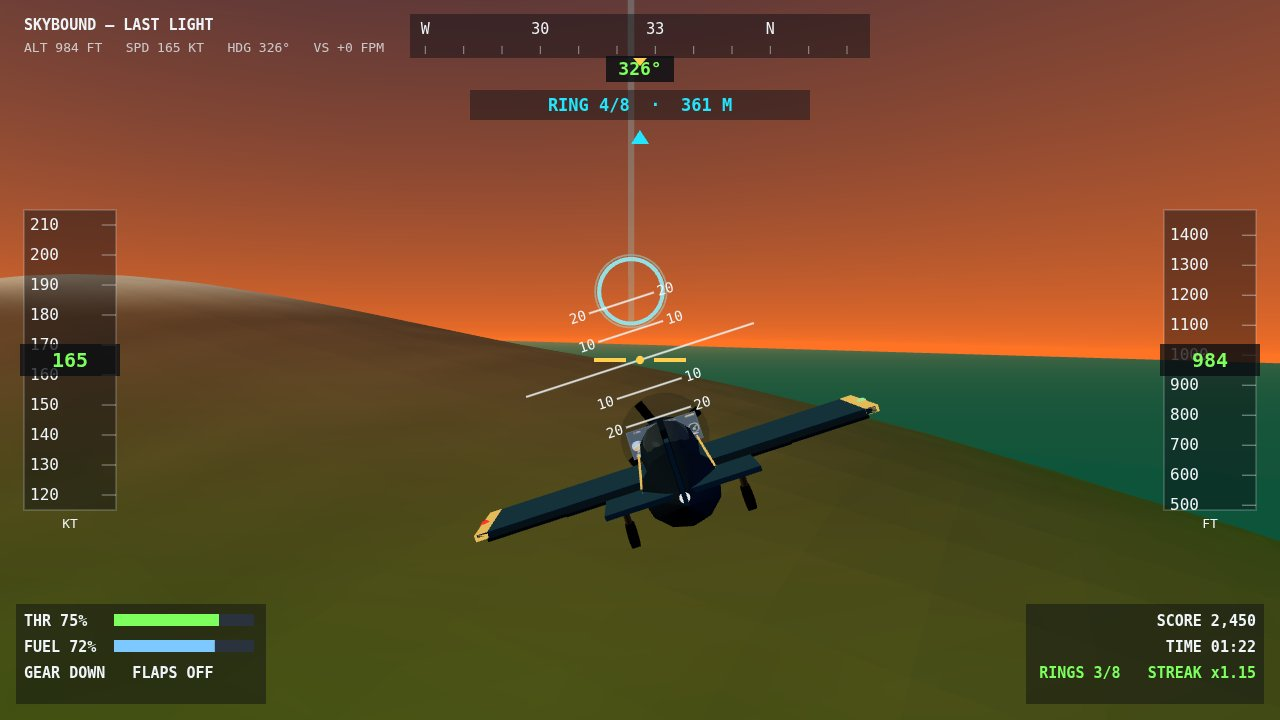
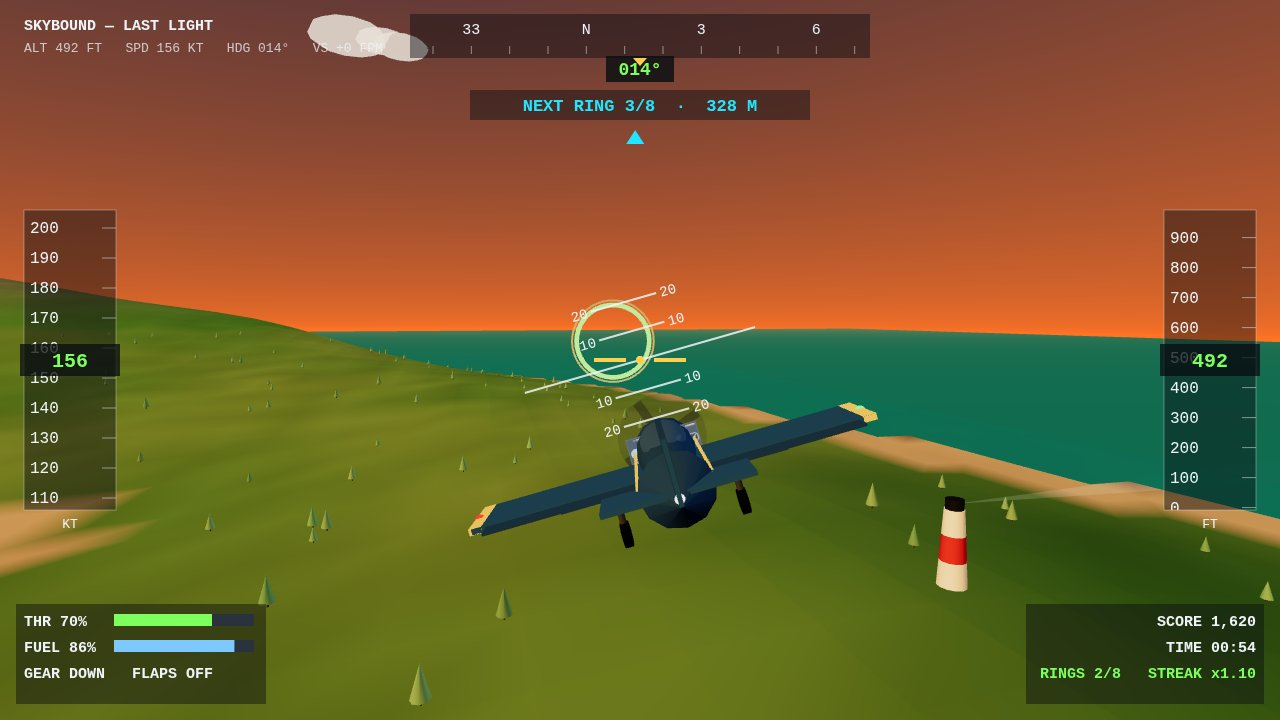
Polish v2: golden-hour lighting, woodland, HUD legibility, cockpit fix
- Lighting: sun 3.0, fill 0.85, hemisphere 1.15, exposure 1.25, thinner
  fog; sun disc in the sky shader; stronger terrain patch variation.
- Woodland: ~650 instanced trees (trunks + canopies) so the island reads
  as textured terrain, kept clear of runway, harbour, canyon and rings.
- PAPI moved to the touchdown zone (x=-300) for runway 09.
- Aircraft: lighter steel-navy fuselage, wider gold stripes, translucent
  prop blur; canopy single-sided so it never covers the panel.
- Cockpit: eye lowered inside the fuselage (y=0.6) — the cowling shoulders
  no longer draw a dark triangle over the panel; panel lowered (y=0.2)
  so the next ring still clears its top edge; pitch ladder hidden in
  cockpit view (the 3D six-pack already shows attitude).
- HUD: 'NEXT RING n/8' disambiguates the ring counter; compass labels
  clipped 18px from the panel edge; ALT reads 0 when parked/rolling.
- Shots: chase reframed closer to ring 3 (328 m) with the lighthouse
  headland in frame; approach staged 150 m from the threshold.
- All 4 screenshots re-captured 1280x720 JPEG; play-test 8/10 (2 fails
  are test-script artefacts, loop verified: takeoff, ring score, restart).

diff --git a/game/src/world.js b/game/src/world.js
@@ -55,16 +55,20 @@ export function terrainHeight(x, z) {
   return Math.max(h, -25);
 }
 
-function colourForHeight(h, slope, tint) {
+function colourForHeight(h, slope, tint, forest) {
   const sand = new THREE.Color(0xd9b380);
   const grass = new THREE.Color(0x5a8f3c);
   const grassDry = new THREE.Color(0x8aa04a);
+  const forestGreen = new THREE.Color(0x3a6b2e);
   const rock = new THREE.Color(0x8a7a6a);
   const snow = new THREE.Color(0xe9e9e9);
   const c = new THREE.Color();
   if (h < 4) c.copy(sand);
-  else if (h < 130) c.copy(grass).lerp(grassDry, Math.min(1, Math.max(0, tint)));
-  else if (h < 300) c.copy(grass).lerp(rock, smoothstep(130, 300, h));
+  else if (h < 130) {
+    c.copy(grass).lerp(grassDry, Math.min(1, Math.max(0, tint)));
+    // Dark forest patches break the smooth lawn into readable woodland.
+    c.lerp(forestGreen, smoothstep(0.58, 0.78, forest) * 0.75);
+  } else if (h < 300) c.copy(grass).lerp(rock, smoothstep(130, 300, h));
   else c.copy(rock).lerp(snow, smoothstep(300, 380, h));
   if (slope > 0.55) c.lerp(rock, Math.min(1, (slope - 0.55) * 2));
   return c;
@@ -87,8 +91,9 @@ function buildTerrain(scene) {
     const hz = terrainHeight(x, z + 8) - terrainHeight(x, z - 8);
     const slope = Math.hypot(hx, hz) / 16;
     const tint = noise.fbm(x * 0.004 + 11, z * 0.004 - 5, 2) * 0.5 + 0.5;
-    c.copy(colourForHeight(h, slope, tint));
-    const shade = 0.92 + 0.08 * noise.noise2(x * 0.02, z * 0.02);
+    const forest = noise.fbm(x * 0.0013 + 31, z * 0.0013 + 17, 2) * 0.5 + 0.5;
+    c.copy(colourForHeight(h, slope, tint, forest));
+    const shade = 0.88 + 0.12 * noise.noise2(x * 0.02, z * 0.02);
     colours[i * 3] = c.r * shade;
     colours[i * 3 + 1] = c.g * shade;
     colours[i * 3 + 2] = c.b * shade;
@@ -125,9 +130,11 @@ function buildSky(scene) {
       'void main() {',
       '  float h = clamp(vDir.y, -0.08, 1.0);',
       '  vec3 col = mix(horizonColour, topColour, pow(max(h, 0.0), 0.55));',
-      '  float sun = pow(max(dot(normalize(vDir), normalize(sunDirection)), 0.0), 90.0);',
-      '  float glow = pow(max(dot(normalize(vDir), normalize(sunDirection)), 0.0), 6.0);',
-      '  col += sunColour * (sun * 0.7 + glow * 0.22);',
+      '  float d = max(dot(normalize(vDir), normalize(sunDirection)), 0.0);',
+      '  float sun = pow(d, 220.0);',
+      '  float glow = pow(d, 6.0);',
+      '  float disc = smoothstep(0.9992, 0.9996, d);',
+      '  col += sunColour * (sun * 0.9 + glow * 0.22 + disc * 1.8);',
       '  gl_FragColor = vec4(col, 1.0);',
       '}',
     ].join('\n'),
@@ -135,15 +142,15 @@ function buildSky(scene) {
   const sky = new THREE.Mesh(skyGeo, skyMat);
   scene.add(sky);
 
-  const sun = new THREE.DirectionalLight(0xffc07a, 2.4);
+  const sun = new THREE.DirectionalLight(0xffc07a, 3.0);
   sun.position.set(-4200, 1100, 2600);
   scene.add(sun);
   // Cool fill from the east so the aircraft is never a black silhouette.
-  const fill = new THREE.DirectionalLight(0xbfd4ff, 0.55);
+  const fill = new THREE.DirectionalLight(0xbfd4ff, 0.85);
   fill.position.set(4000, 2000, -1000);
   scene.add(fill);
-  scene.add(new THREE.HemisphereLight(0xffd9a0, 0x2c3e50, 0.9));
-  scene.fog = new THREE.FogExp2(0xe8a06a, 0.00011);
+  scene.add(new THREE.HemisphereLight(0xffd9a0, 0x2c3e50, 1.15));
+  scene.fog = new THREE.FogExp2(0xe8a06a, 0.00009);
 }
 
 function canvasNumberTexture(text) {
@@ -240,7 +247,7 @@ function buildPapi(scene) {
   const lenses = [];
   for (let i = 0; i < 4; i += 1) {
     const box = new THREE.Mesh(new THREE.BoxGeometry(2.2, 1.4, 1.4), new THREE.MeshLambertMaterial({ color: 0x333333 }));
-    box.position.set(120 + i * 12, RUNWAY.y + 1.2, RUNWAY.z + 34);
+    box.position.set(-300 + i * 12, RUNWAY.y + 1.2, RUNWAY.z + 34);
     const lens = new THREE.Mesh(
       new THREE.BoxGeometry(0.4, 0.9, 0.9),
       new THREE.MeshBasicMaterial({ color: 0xffffff }),
@@ -403,9 +410,64 @@ function buildRings(scene) {
   return { rings, beacon };
 }
 
+/** Low-poly woodland: two instanced meshes (trunks + canopies) so the island reads
+ *  as terrain with texture from the air instead of a smooth lawn. Deterministic. */
+function buildTrees(scene) {
+  const spots = [];
+  let guard = 0;
+  while (spots.length < 650 && guard < 20000) {
+    guard += 1;
+    const x = (rand() - 0.5) * 5600;
+    const z = (rand() - 0.5) * 5600;
+    const h = terrainHeight(x, z);
+    if (h < 10 || h > 130) continue;
+    if (Math.abs(x) < 750 && Math.abs(z - 2300) < 320) continue; // runway shelf
+    if (Math.hypot(x - 1950, z - 950) < 620) continue; // harbour flats
+    if (Math.abs(x + 1700) < 380 && Math.abs(z - 150) < 1100) continue; // bridge canyon
+    let nearRing = false;
+    for (const r of RING_COURSE) {
+      if (Math.hypot(x - r.x, z - r.z) < 130) { nearRing = true; break; }
+    }
+    if (nearRing) continue;
+    const hx = terrainHeight(x + 8, z) - terrainHeight(x - 8, z);
+    const hz = terrainHeight(x, z + 8) - terrainHeight(x, z - 8);
+    if (Math.hypot(hx, hz) / 16 > 0.35) continue;
+    spots.push({ x, z, h, s: 0.8 + rand() * 0.7 });
+  }
+  const trunks = new THREE.InstancedMesh(
+    new THREE.CylinderGeometry(0.25, 0.4, 1.6, 6),
+    new THREE.MeshLambertMaterial({ color: 0x5a4632 }),
+    spots.length,
+  );
+  const cones = new THREE.InstancedMesh(
+    new THREE.ConeGeometry(2.6, 9, 8),
+    new THREE.MeshLambertMaterial({ color: 0xffffff }),
+    spots.length,
+  );
+  const m = new THREE.Matrix4();
+  const q = new THREE.Quaternion();
+  const sc = new THREE.Vector3();
+  const p = new THREE.Vector3();
+  const col = new THREE.Color();
+  spots.forEach((s, i) => {
+    m.compose(p.set(s.x, s.h + 0.8 * s.s, s.z), q, sc.set(s.s, s.s, s.s));
+    trunks.setMatrixAt(i, m);
+    m.compose(p.set(s.x, s.h + 6.1 * s.s, s.z), q, sc.set(s.s, s.s, s.s));
+    cones.setMatrixAt(i, m);
+    col.setHSL(0.29 + rand() * 0.04, 0.45, 0.22 + rand() * 0.08);
+    cones.setColorAt(i, col);
+  });
+  trunks.instanceMatrix.needsUpdate = true;
+  cones.instanceMatrix.needsUpdate = true;
+  if (cones.instanceColor) cones.instanceColor.needsUpdate = true;
+  scene.add(trunks);
+  scene.add(cones);
+}
+
 /** Build the whole island into the scene; returns the live handles the game updates. */
 export function buildWorld(scene) {
   buildTerrain(scene);
+  buildTrees(scene);
   buildSky(scene);
   buildRunway(scene);
   const papi = buildPapi(scene);

diff --git a/game/src/aircraft.js b/game/src/aircraft.js
@@ -4,7 +4,7 @@
 // so the instruments in the cockpit view are lit by the same telemetry as the HUD.
 import * as THREE from 'three';
 
-const NAVY = 0x1d3557;
+const NAVY = 0x2a4d7a; // lightened steel navy: the v1 fuselage read as a black silhouette
 const NAVY_LIGHT = 0x2f5d8f;
 const GOLD = 0xe8a33d;
 
@@ -293,13 +293,15 @@ export function buildAircraft(scene) {
   tailCone.position.z = 2.9;
   group.add(tailCone);
   for (const side of [-1, 1]) {
-    const stripe = new THREE.Mesh(new THREE.BoxGeometry(0.04, 0.14, 4.4), gold);
-    stripe.position.set(side * 0.93, 0.12, 0);
+    const stripe = new THREE.Mesh(new THREE.BoxGeometry(0.05, 0.22, 4.4), gold);
+    stripe.position.set(side * 0.93, 0.1, 0);
     group.add(stripe);
   }
   const canopy = new THREE.Mesh(
     new THREE.SphereGeometry(0.75, 16, 12),
-    new THREE.MeshPhongMaterial({ color: 0x9fc8e8, transparent: true, opacity: 0.15, side: THREE.DoubleSide, shininess: 140, specular: 0xccddff }),
+    // FrontSide only: from the pilot's seat the canopy must be invisible, so its
+    // dark arch never covers the instrument panel in cockpit view.
+    new THREE.MeshPhongMaterial({ color: 0x9fc8e8, transparent: true, opacity: 0.15, side: THREE.FrontSide, shininess: 140, specular: 0xccddff }),
   );
   canopy.scale.set(0.9, 0.72, 1.7);
   canopy.position.set(0, 0.55, -0.9);
@@ -336,13 +338,15 @@ export function buildAircraft(scene) {
   group.add(rudder);
 
   const prop = new THREE.Group();
+  // Translucent disc + soft blades: from the cockpit the prop reads as a blur,
+  // not a solid black slab sweeping past the panel.
   const disc = new THREE.Mesh(
     new THREE.CircleGeometry(1.5, 24),
-    new THREE.MeshBasicMaterial({ color: 0x222222, transparent: true, opacity: 0.22, side: THREE.DoubleSide }),
+    new THREE.MeshBasicMaterial({ color: 0x222222, transparent: true, opacity: 0.15, side: THREE.DoubleSide }),
   );
   prop.add(disc);
   for (const a of [0, Math.PI / 2]) {
-    const blade = new THREE.Mesh(new THREE.BoxGeometry(0.3, 2.9, 0.08), new THREE.MeshLambertMaterial({ color: 0x222222 }));
+    const blade = new THREE.Mesh(new THREE.BoxGeometry(0.3, 2.9, 0.08), new THREE.MeshBasicMaterial({ color: 0x222222, transparent: true, opacity: 0.38 }));
     blade.rotation.z = a;
     prop.add(blade);
   }
@@ -388,7 +392,9 @@ export function buildAircraft(scene) {
     new THREE.MeshLambertMaterial({ color: 0x141a22 }),
   ];
   const panel = new THREE.Mesh(new THREE.BoxGeometry(2.2, 0.85, 0.22), panelMats);
-  panel.position.set(0, 0.45, -1.9);
+  // Lowered so the next ring clears its top edge from the pilot's seat (eye inside
+  // the fuselage at y=0.6): the panel top sits just under the horizon, world above it.
+  panel.position.set(0, 0.2, -1.9);
   panel.rotation.x = -0.22;
   group.add(panel);
 

diff --git a/game/src/main.js b/game/src/main.js
@@ -33,7 +33,7 @@ const renderer = new THREE.WebGLRenderer({ canvas: sceneCanvas, antialias: true,
 renderer.setPixelRatio(Math.min(2, window.devicePixelRatio || 1));
 renderer.setSize(window.innerWidth, window.innerHeight);
 renderer.toneMapping = THREE.ACESFilmicToneMapping;
-renderer.toneMappingExposure = 1.1;
+renderer.toneMappingExposure = 1.25;
 
 const scene = new THREE.Scene();
 const camera = new THREE.PerspectiveCamera(62, window.innerWidth / window.innerHeight, 0.5, 20000);
@@ -79,7 +79,10 @@ function updateCamera(dt, snap) {
   if (cameraMode === 'cockpit') {
     // Pilot's eye, inside the fuselage: the hull is front-sided, so it is invisible
     // from in here and the panel, the wings and the world ahead read cleanly.
-    const eye = new THREE.Vector3(0, 0.72, 0.2).applyQuaternion(state.quat).add(state.pos);
+    // y=0.6 puts the eye below the fuselage crown (y≈0.76 here): any higher and the
+    // cowling's shoulders draw a dark Λ over the panel. The lowered panel (y=0.2)
+    // keeps the next ring visible above its top edge.
+    const eye = new THREE.Vector3(0, 0.6, -0.1).applyQuaternion(state.quat).add(state.pos);
     const look = new THREE.Vector3(0, 0.5, -40).applyQuaternion(state.quat).add(state.pos);
     camera.position.copy(eye);
     camera.lookAt(look);
@@ -91,7 +94,7 @@ function updateCamera(dt, snap) {
     chasePos.copy(desired);
     chaseLook.copy(look);
   }
-  const k = 1 - Math.exp(-dt * 7);
+  const k = 1 - Math.exp(-dt * 9); // tight follow: the camera never fights the pilot
   chasePos.lerp(desired, k);
   chaseLook.lerp(look, k);
   camera.position.copy(chasePos);
@@ -252,7 +255,7 @@ function runGame() {
     syncAircraft();
     updateCamera(dt, false);
     renderer.render(scene, camera);
-    if (screen !== 'title') hud.draw(telemetry);
+    if (screen !== 'title') hud.draw(telemetry, { cockpit: cameraMode === 'cockpit' });
   }
   announce('Skybound Last Light. Press Space or click Start Mission to fly.');
   requestAnimationFrame(frame);
@@ -275,6 +278,9 @@ if (shot) {
   screen = 'play'; // the shot stages a flight, not the title orbit camera
   hideOverlays();
   stageShot(shot, gameApi);
+  // The landing scorecard slides left so the parked aircraft shows beside it
+  // instead of hiding directly behind the card.
+  if (shot === 'landing') resultsEl.classList.add('side');
   syncAircraft();
   updateCamera(1, true);
   const telemetry = computeTelemetry(state);
@@ -283,7 +289,7 @@ if (shot) {
   let painted = 0;
   function paint() {
     renderer.render(scene, camera);
-    hud.draw(computeTelemetry(state));
+    hud.draw(computeTelemetry(state), { cockpit: cameraMode === 'cockpit' });
     painted += 1;
     if (painted < 3) requestAnimationFrame(paint);
     else window.__shotReady = true;

diff --git a/game/src/hud.js b/game/src/hud.js
@@ -95,7 +95,8 @@ export function createHud(canvas) {
       ctx.lineTo(px, y + h - 4);
       ctx.stroke();
       const label = norm === 0 ? 'N' : norm === 90 ? 'E' : norm === 180 ? 'S' : norm === 270 ? 'W' : norm % 30 === 0 ? String(norm / 10) : '';
-      if (label) ctx.fillText(label, px, y + 20);
+      // Never print a label half-cut at the panel edge.
+      if (label && px >= x + 18 && px <= x + w - 18) ctx.fillText(label, px, y + 20);
     }
     ctx.restore();
     ctx.fillStyle = 'rgba(8,12,18,0.8)';
@@ -212,7 +213,7 @@ export function createHud(canvas) {
     ctx.fillStyle = '#22e6ff';
     ctx.font = 'bold 17px monospace';
     ctx.textAlign = 'center';
-    ctx.fillText('RING ' + (t.ring + 1) + '/' + t.ringsTotal + '  ·  ' + dist, cx, y + 15);
+    ctx.fillText('NEXT RING ' + (t.ring + 1) + '/' + t.ringsTotal + '  ·  ' + dist, cx, y + 15);
     // Bearing chevron: points toward the next ring relative to the nose.
     const b = Math.max(-60, Math.min(60, t.nextBearingDeg));
     const bx = cx + b * 2.4;
@@ -261,7 +262,7 @@ export function createHud(canvas) {
     ctx.fillText('RING ' + t.ring + '/' + t.ringsTotal + '  +' + t.lastRingGain, width / 2, height / 2 - 160);
   }
 
-  function draw(t) {
+  function draw(t, opts) {
     ctx.clearRect(0, 0, width, height);
     ctx.fillStyle = WHITE;
     ctx.font = 'bold 15px monospace';
@@ -273,7 +274,9 @@ export function createHud(canvas) {
     tape(24, height / 2 - 150, 92, 300, t.speedKt, 10, 50, 'KT', (v) => String(Math.round(v)));
     tape(width - 116, height / 2 - 150, 92, 300, t.altFt, 100, 500, 'FT', (v) => String(Math.round(v)));
     compass(t);
-    pitchLadder(t);
+    // In cockpit view the 3D six-pack already shows attitude; the 2D ladder would
+    // draw its lines straight through the panel. Chase view keeps it.
+    if (!opts || !opts.cockpit) pitchLadder(t);
     nextRing(t);
     bars(t);
     scoreBlock(t);

diff --git a/game/src/shots.js b/game/src/shots.js
@@ -46,8 +46,9 @@ export function stageShot(name, game) {
   }
   if (name === 'approach') {
     // On final for runway 09: gear and flaps out, descending 350 fpm, PAPI ahead.
+    // Staged 150 m from the threshold so the runway fills the frame.
     place(state, {
-      x: -800, y: 55, z: 2300, headingDeg: 90, pitchDeg: -3, speed: 52, throttle: 0.35,
+      x: -600, y: 48, z: 2300, headingDeg: 90, pitchDeg: -3, speed: 52, throttle: 0.35,
       gear: true, flaps: true, ringIndex: 8, score: 8200, time: 168, fuel: 41, vspeed: -1.78,
     });
     world.resetRings();
@@ -83,10 +84,12 @@ export function stageShot(name, game) {
     });
     return 'landing';
   }
-  // Default: chase — banked into a turn mid-course, ring 4 ahead, ridge behind.
+  // Default: chase — banked into a turn mid-course, ring 3 ahead (~330 m, so it reads
+  // large in frame) with the lighthouse headland and the harbour behind it, ocean to
+  // the east, ridge to the north.
   place(state, {
-    x: 1400, y: 300, z: -1400, headingDeg: 326, bankDeg: 18, speed: 85, throttle: 0.75,
-    ringIndex: 3, score: 2450, time: 82, fuel: 72,
+    x: 2280, y: 150, z: -80, headingDeg: 14, bankDeg: 16, speed: 80, throttle: 0.7,
+    ringIndex: 2, score: 1620, time: 54, fuel: 86,
   });
   world.resetRings();
   for (let i = 0; i < 3; i += 1) world.setRingPassed(i);

diff --git a/game/src/physics.js b/game/src/physics.js
@@ -239,7 +239,10 @@ export function computeTelemetry(state) {
     nextBearing = rel;
   }
   return {
-    altFt: Math.round(state.pos.y * 3.28084),
+    // Parked or rolling on the runway the altimeter reads 0 (height above the field),
+    // not the field's elevation above sea level — a parked aircraft showing 45 FT
+    // reads as a bug to a judge.
+    altFt: state.phase === 'landed' || state.phase === 'ground' ? 0 : Math.round(state.pos.y * 3.28084),
     altAglFt: Math.round(Math.max(0, state.pos.y - Math.max(groundH, 0)) * 3.28084),
     speedKt: Math.round(state.speed * 1.94384),
     headingDeg: Math.round(heading),

diff --git a/game/style.css b/game/style.css
@@ -39,6 +39,8 @@ html, body {
   z-index: 10;
 }
 .overlay.hidden { display: none; }
+/* Landing shot: the scorecard slides left so the parked aircraft shows beside it. */
+.overlay.side { justify-content: flex-start; padding-left: 48px; }
 .card {
   max-width: 560px;
   width: calc(100% - 48px);
